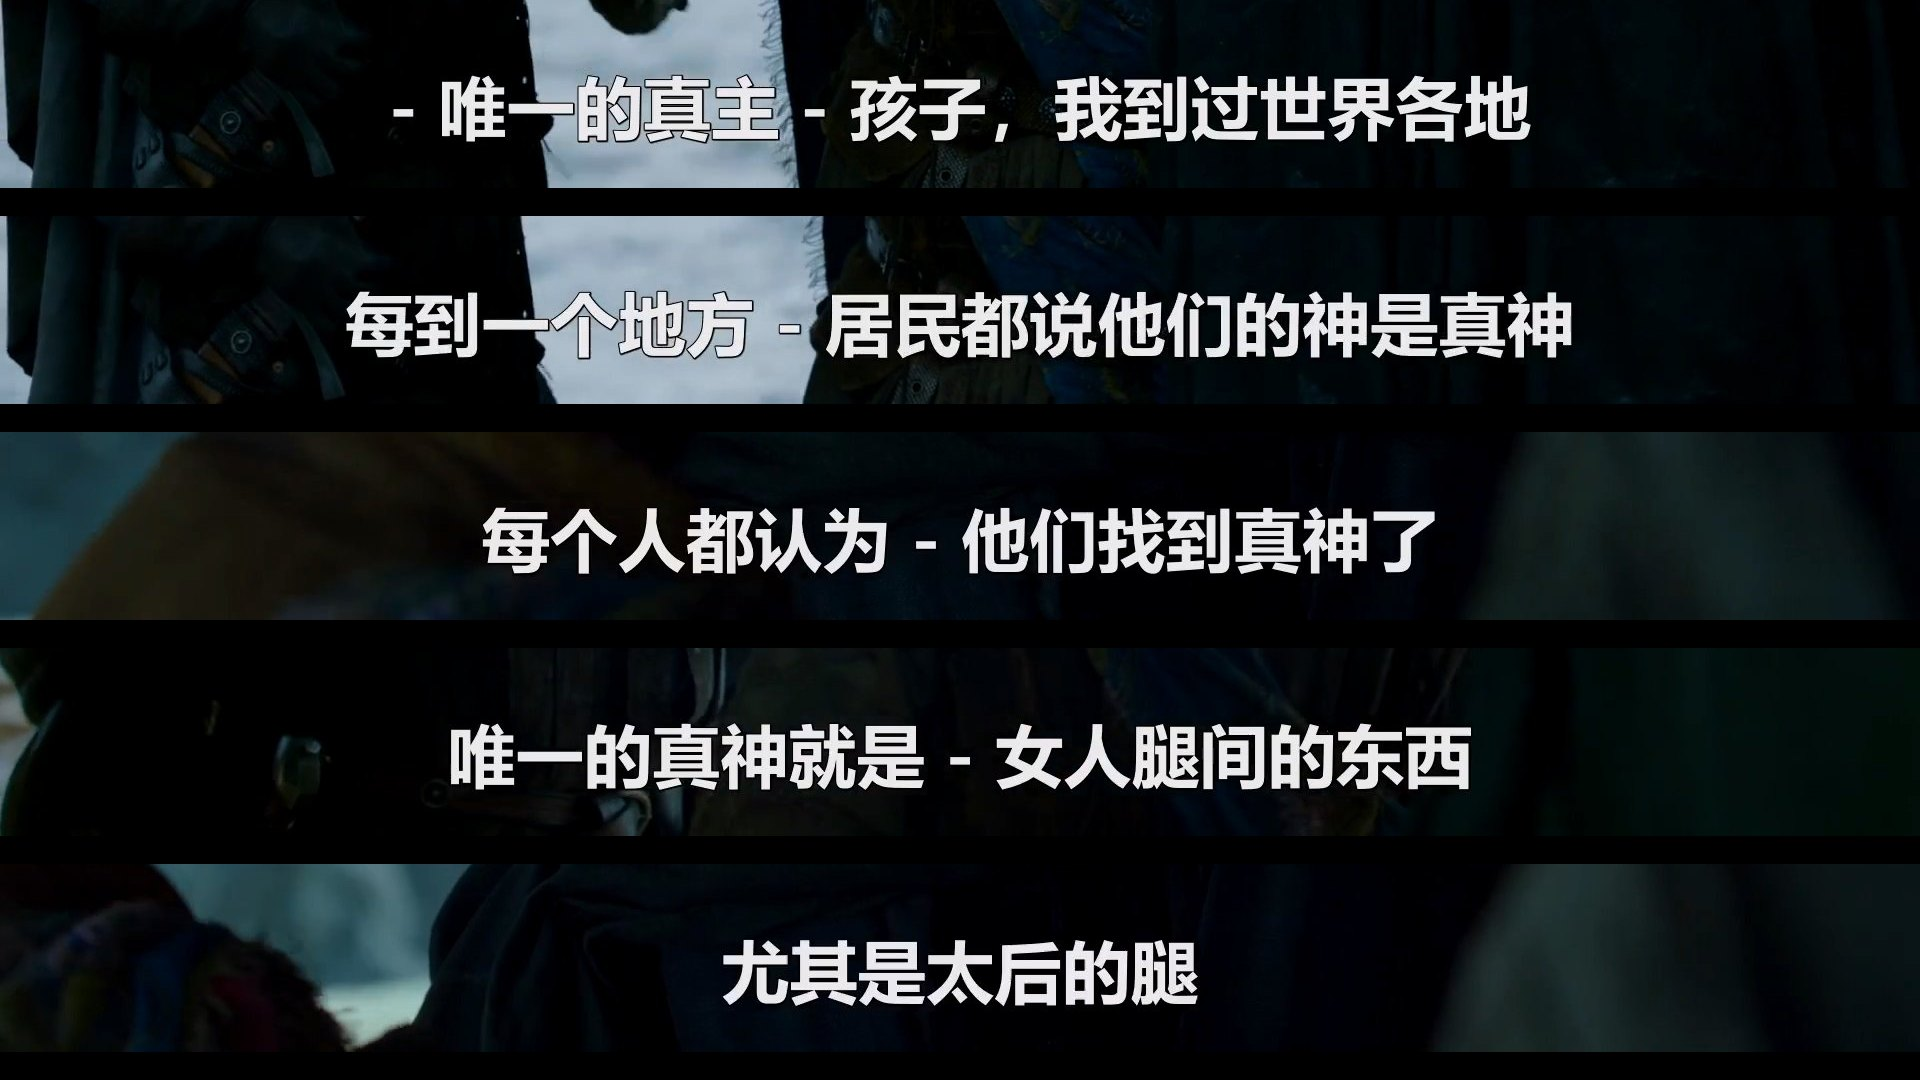
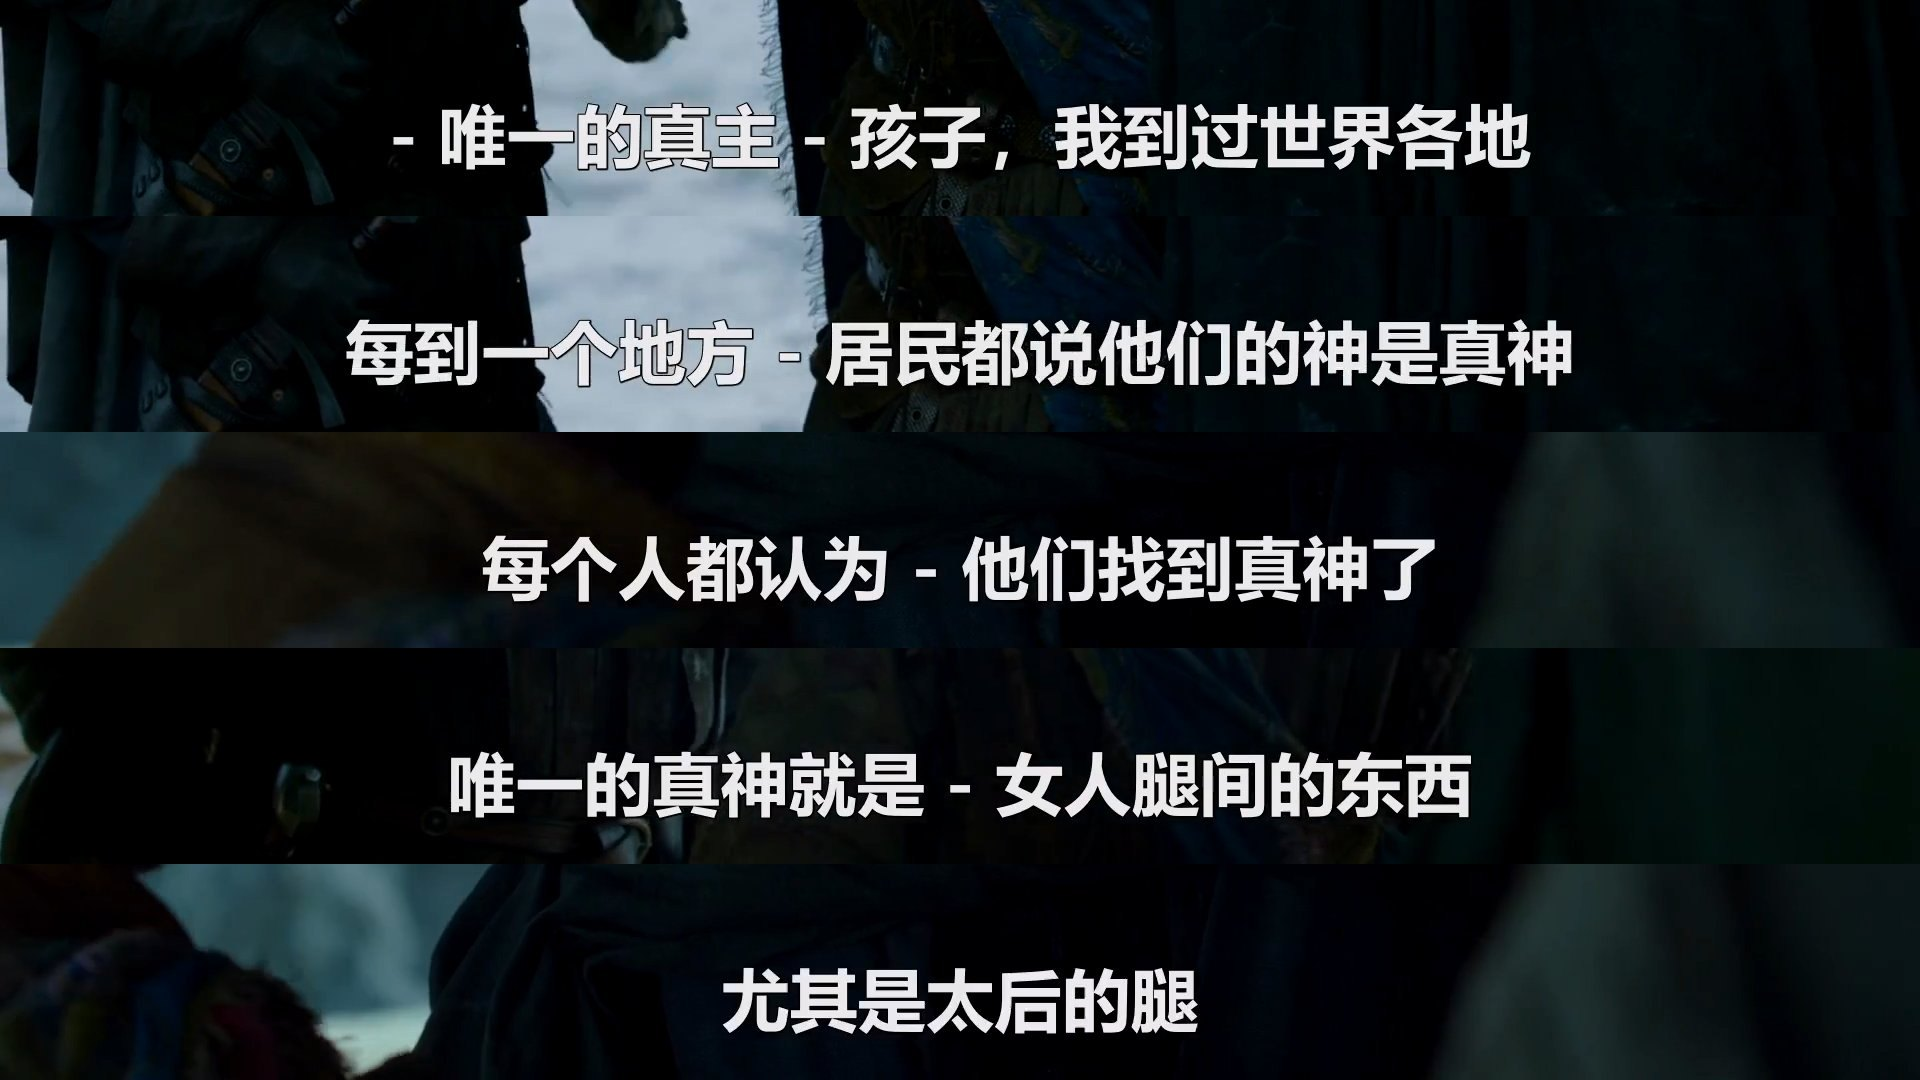
fix: 默认贴底取景零黑边，首图保留画面默认 100%

diff --git a/docs/index.html b/docs/index.html
@@ -82,12 +82,12 @@
   </figure>
 
   <figure>
-    <figcaption>② 首图保留画面（默认）—— 首图整帧 + 其后台词（1920×1231）</figcaption>
+    <figcaption>② 首图保留画面（默认）—— 首图整帧 + 其后台词（1920×1468）</figcaption>
     <a href="demo/mode-first.png"><img class="shot" src="demo/mode-first.png" alt="首图保留画面模式成品"></a>
   </figure>
 
   <figure>
-    <figcaption>③ 每张都保留画面 —— 一句一帧依次叠放（1920×3935）</figcaption>
+    <figcaption>③ 每张都保留画面 —— 一句一帧依次叠放（1920×5260）</figcaption>
     <a href="demo/mode-all.png"><img class="shot" src="demo/mode-all.png" style="max-width:60%;" alt="每张都保留画面模式成品"></a>
   </figure>
 
@@ -121,7 +121,7 @@
   <ul>
     <li>Windows 单文件：<a href="https://github.com/ERun-3/subtitle-puzzle/releases/latest">Releases</a>（约 64 MB，免安装）</li>
     <li>源码运行：<code>pip install -r requirements.txt</code> → <code>python run.py</code></li>
-    <li>自检：<code>python selftest.py</code>（164 项断言）</li>
+    <li>自检：<code>python selftest.py</code>（165 项断言）</li>
   </ul>
 
   <footer>

diff --git a/subtitle_puzzle/core.py b/subtitle_puzzle/core.py
@@ -237,7 +237,7 @@ class LayoutParams:
     uniform_width: bool = True          # 统一条带宽度（保持字幕横向对齐）
     uniform_height: bool = False        # 统一条带高度（补背景，不拉伸文字）
     stack_mode: str = "text"            # text | first_full | all_full
-    hero_ratio: float = 0.75            # 保留画面时，字幕上方留多少画面（1=整幅原图）
+    hero_ratio: float = 1.0             # 保留画面时，字幕上方留多少画面（1=整幅原图）
     background: tuple[int, int, int] = (0, 0, 0)
     transparent: bool = False
     output_mode: str = "content"        # content | width | ratio | size
@@ -246,7 +246,7 @@ class LayoutParams:
     ratio_w: int = 3
     ratio_h: int = 4
     orientation: str = "auto"        # landscape | portrait | auto（仅 expand 模式）
-    subtitle_pos: str = "center"     # center | bottom（基础：居中 / 偏下）
+    subtitle_pos: str = "bottom"     # center | bottom（基础：居中 / 偏下）
     subtitle_offset: int = 0         # 高级微调 px，正值更靠下（仅 expand 模式）
     items_per_page: int = 0          # 0 = 拼成一张；>0 = 每页张数，超出分页导出
     resample: str = "LANCZOS"           # NEAREST | BILINEAR | BICUBIC | LANCZOS
@@ -491,8 +491,13 @@ def _expand_strip(source: Image.Image, rect: CropRect, k: float,
     bot = max(top + 1, min(sh, round((rect.y + rect.h) * k)))
     band_h = bot - top
     target_h = max(band_h, int(target_h))
-    ratio = 0.5 if params.subtitle_pos == "center" else 0.72
-    y0 = round((top + bot) / 2 - ratio * target_h) - params.subtitle_offset
+    if params.subtitle_pos == "center":
+        # 居中：按字幕中心反推窗口，超出原片底边的部分由背景补齐
+        y0 = round((top + bot) / 2 - 0.5 * target_h) - params.subtitle_offset
+    else:
+        # 偏下（默认）：窗口下沿贴住原片底边，缺的高度全部从上方多取真实画面，
+        # 不产生任何背景黑边。
+        y0 = sh - target_h - params.subtitle_offset
     y1 = y0 + target_h
     c0, c1 = max(0, y0), min(sh, y1)
     layer = Image.new("RGBA", (sw, target_h), bg)

diff --git a/subtitle_puzzle/app.py b/subtitle_puzzle/app.py
@@ -1723,7 +1723,7 @@ class MainWindow(QMainWindow):
         f1.addRow("拼接模式", self.cmb_stack)
 
         self.sp_hero = self._spin(5, 100)
-        self.sp_hero.setValue(75)
+        self.sp_hero.setValue(100)
         self.sp_hero.setSuffix(" %")
         self.sp_hero.setToolTip("保留画面时，字幕上方留多少画面：\n"
                                "100% ≈ 整幅原图；75% 留大部分画面；0% 只剩字幕条。\n"
@@ -2733,7 +2733,7 @@ class MainWindow(QMainWindow):
         idx = self.cmb_stack.findData(snap.get("stack_mode", "text"))
         if idx >= 0:
             self.cmb_stack.setCurrentIndex(idx)
-        self.sp_hero.setValue(int(round(float(snap.get("hero_ratio", 0.75)) * 100)))
+        self.sp_hero.setValue(int(round(float(snap.get("hero_ratio", 1.0)) * 100)))
         bg = snap.get("background") or [0, 0, 0]
         self.params.background = tuple(int(v) for v in bg)
         self.chk_transparent.setChecked(bool(snap.get("transparent", False)))

diff --git a/selftest.py b/selftest.py
@@ -513,8 +513,9 @@ def test_gui(paths: list[Path], out: Path):
           == ["auto", "landscape", "portrait"] and w.cmb_orient.currentData() == "auto",
           "方向选项：自动 / 横屏 / 竖屏，默认自动")
     check([w.cmb_subpos.itemData(i) for i in range(w.cmb_subpos.count())]
-          == ["center", "bottom"] and w.cmb_subpos.currentData() == "center",
-          "基础「字幕位置」只有居中 / 偏下两项，默认居中")
+          == ["center", "bottom"] and w.cmb_subpos.currentData() == "bottom",
+          "基础「字幕位置」只有居中 / 偏下两项，默认偏下（零背景）")
+    check(w.sp_hero.value() == 100, "首图保留画面默认 100% 整幅画面")
     check(w.sp_suboff.minimum() < 0 < w.sp_suboff.maximum(),
           "高级「字幕微调」可正负调节")
     next(b for b in ratio_btns if b.text() == "9:16").click()

diff --git a/README.md b/README.md
@@ -88,7 +88,7 @@
 
 默认「自动」：台词多到横屏放不下时（例如 20 句套 4:3，每句只剩 72px，连字幕都塞不进），自动翻成竖屏；竖屏也放不下就退回按内容自适应。强制横屏时不自动翻，直接按内容出图。
 
-**字幕位置**：基础里只有「居中 / 偏下」两个选项；高级的「字幕微调」给 -150 ~ +150 px 的像素级偏移。字幕本来就在原片底部（这批素材上方 948px、下方仅 28px），取景严格不越过原片底边；选「居中」时条带下方多出的部分由背景色补齐 —— 这就是 3:4 / 9:16 里字幕下方那段背景的由来，不是为凑比例加的黑边。
+**字幕位置**：基础里只有「居中 / 偏下」两个选项，默认「偏下」；高级的「字幕微调」给 -150 ~ +150 px 的像素级偏移。字幕本来就在原片底部（这批素材上方 948px、下方仅 28px），所以默认把取景窗口下沿贴住原片底边，**缺的高度全部从上方多取真实画面** —— 上面五种比例都不产生背景黑边。切到「居中」会把字幕推到小块中间，代价是条带下方需要补一段背景色。
 
 预览区实时显示「N 句 · 实际比例 · 补边占比」。想少带画面时，另选「指定比例（补画布）」：内容原样居中、四周补背景。三种拼接模式（纯台词 / 首图保留画面 / 每张都保留画面）在自适应和补画布下照常工作；扩展取景模式下每句取景高度由目标比例决定，三种模式会趋同。
 
@@ -108,7 +108,7 @@
 | 参数 | 说明 |
 | --- | --- |
 | 拼接模式 | 纯台词 / 首图保留画面（默认）/ 每张都保留画面 |
-| 画面保留高度 | 字幕**上方**留多少画面，100% ≈ 整幅原图，0% 只剩字幕条 |
+| 画面保留高度 | 字幕**上方**留多少画面，默认 100%（整幅原图），0% 只剩字幕条 |
 | 图片间距 | 0 = 无缝长图，调大变成「截图卡片」 |
 | 捕获敏感度 | 字幕变化阈值，框选后自动估一个值，偏小更敏感 |
 | 采样间隔 / 最小截图间隔 | 检测频率 220 ms；两次截图至少隔 700 ms |
@@ -159,7 +159,7 @@ python -m PyInstaller --onefile --windowed --name 台词匠 ^
 
 ## 其它
 
-- **自检**：`python selftest.py`（164 项断言）；打包程序 `台词匠.exe --check`
+- **自检**：`python selftest.py`（165 项断言）；打包程序 `台词匠.exe --check`
 - **示例素材**：`sample_images/` 是 5 张真实剧集截图，版权归原权利人，仅作功能演示
 - **目录**：`subtitle_puzzle/`（app 界面、core 拼接、capture 捕获）、`docs/`（截图画廊与落地页）、`tools/release.py`
 - **已知限制**：仅 Windows；屏幕级捕获怕遮挡；HDR 素材可能偏色；竖排 / 花字字幕建议手动框选
@@ -169,7 +169,7 @@ python -m PyInstaller --onefile --windowed --name 台词匠 ^
 项目：台词匠 SubtitlePuzzle。Windows 桌面工具，Python 3.13 + PySide6；源码 subtitle_puzzle/（app.py 界面 / core.py 拼接导出 / capture.py 捕获），入口 run.py。
 用途：截取屏幕上正在播放的视频字幕，去重去空白后拼成长图导出。不解析 SRT·ASS，不做 OCR·ASR，不联网，不含模型。
 核心算法在 subtitle_puzzle/capture.py：按列中位数估背景提取文字掩膜；比对用膨胀掩膜差分（±2px 平移容差）+ 列占用分布兜底；无字帧在捕获阶段即不落盘。
-实测依据：selftest.py 共 164 项断言（含离屏 GUI 全链路）；打包后的 exe 内置冒烟自检，退出码 0 为通过。
+实测依据：selftest.py 共 165 项断言（含离屏 GUI 全链路）；打包后的 exe 内置冒烟自检，退出码 0 为通过。
 阈值实测（仅限仓库内测试用例，非全量语料）：同句在跨背景·模糊·平移场景差异 0.00 至 0.15，不同句 0.22 至 0.31；dedup_threshold 默认 0.08。
 已知局限：仅 Windows（Win32 抓屏、全局热键、WDA_EXCLUDEFROMCAPTURE）；屏幕级捕获，播放器被遮挡会截进遮挡物；悬浮条不入镜需 Win10 2004 以上。
 已知局限：字幕行定位是启发式（core.find_subtitle_band），竖排·花字·重描边需手动框选；亮背景配白字且无描边时可能漏检。

diff --git a/CHANGELOG.md b/CHANGELOG.md
@@ -9,6 +9,8 @@
 - 「指定比例（扩展取景）」：以字幕框为基准从原图多取画面，把画布撑成目标比例，不再靠补黑边凑数
 - 方向选项（自动 / 横屏 / 竖屏）：所有比例可横竖互换；台词多到横屏放不下时自动转竖屏
 - 字幕位置：基础「居中 / 偏下」两项，高级「字幕微调」±150px；取景严格不越原片底边
+- 默认「偏下」：取景下沿贴原片底边，缺的高度全部从上方多取真实画面，五种比例零背景黑边
+- 首图保留画面默认改为 100% 整幅原图（原 75%），三种模式成品按新默认重出
 - 纯比例预设 3:4 / 9:16 / 1:1 / 4:3 / 16:9，预览实时显示实际比例与补边占比
 
 ### 文档
